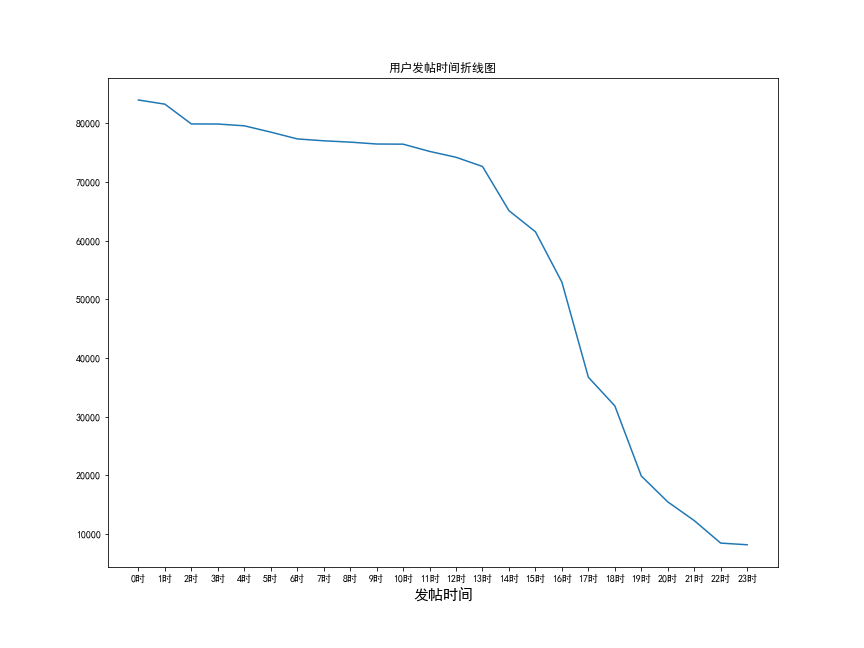
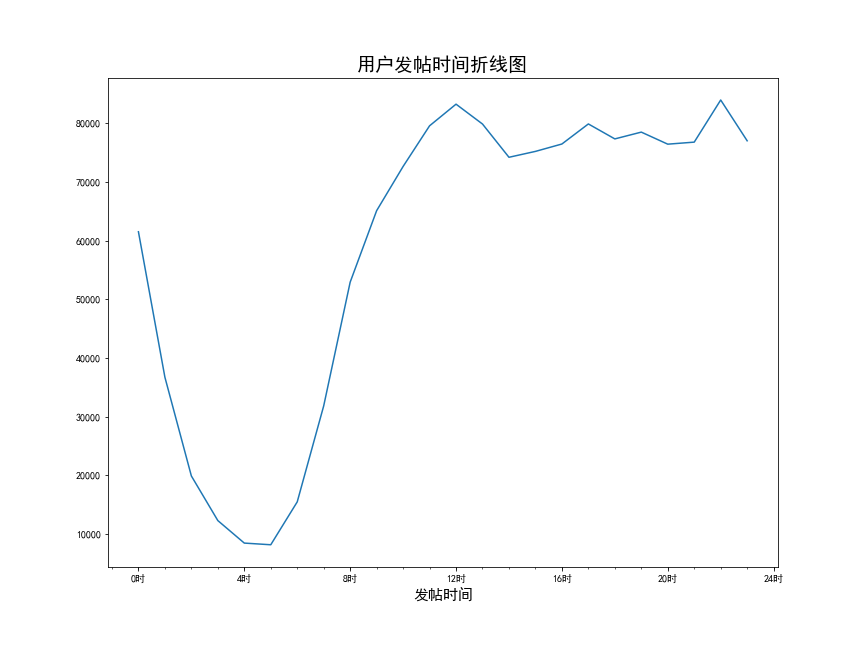
修改刻度

diff --git a/tiebaAnalyse/tieAnalyse.py b/tiebaAnalyse/tieAnalyse.py
@@ -1,7 +1,11 @@
+# -*- coding: utf-8 -*-
+
 import pandas as pd
 import matplotlib.pyplot as plt
 import matplotlib
 from wordcloud import WordCloud
+from matplotlib.ticker import MultipleLocator
+from matplotlib.ticker import  FormatStrFormatter
 
 
 class TieMat():
@@ -21,7 +25,6 @@ class TieMat():
         plt.axis('equal')
         # 图例
         ax.legend(loc=3)
-        plt.show()
         plt.savefig('发帖来源饼图')
         
     def level_bar(self, data):
@@ -40,9 +43,8 @@ class TieMat():
         # 显示图标题
         plt.title("用户等级分布条形图", fontsize=19)
         for a,b in zip(x,y):
-            plt.text(a, b + 1000, '%.0f'%b, ha='center', 
+            plt.text(a, b + 1000, '%d'%b, ha='center', 
                      va='bottom', fontsize=10)
-        plt.show()
         plt.savefig('用户等级分布条形图')
     
     def time_plot(self, data):
@@ -50,16 +52,23 @@ class TieMat():
         # 取发帖时间的小时作为发帖时间
         data['create_time'] = data['create_time'].str[:2]
         y = data['create_time'].value_counts()
+        y = y.sort_index()
         x = y.index
-        label = [str(i) + '时' for i in range(0,24)]
         # 折线图
-        plt.figure(figsize=(12,9))
-        plt.plot(x, y)
-        plt.xticks(x, label)
-        plt.xlabel('发帖时间', fontsize=15)
-        plt.title('用户发帖时间折线图', fontsize=19)
-        plt.show()
-        plt.savefig('用户发帖时间折线图')
+        x_major = MultipleLocator(4)
+        x_minor = MultipleLocator(1)
+        # 设置x轴标签文本的格式
+        x_formatter = FormatStrFormatter('%d时') 
+        fig, ax = plt.subplots(figsize=(12,9))
+        ax.plot(x, y)
+        #设置主刻度标签
+        ax.xaxis.set_major_locator(x_major)
+        ax.xaxis.set_major_formatter(x_formatter)
+        ax.xaxis.set_minor_locator(x_minor)
+        
+        ax.set_xlabel('发帖时间', fontsize=15)
+        ax.set_title('用户发帖时间折线图', fontsize=19)
+        plt.savefig('用户发帖时间折线图1')
         
     def name_wordcloud(self, data):
         "昵称词云图"
@@ -76,7 +85,6 @@ class TieMat():
         plt.axis('off')
         # 保存图片
         w.to_file('昵称词云图.png')
-        plt.show()
         
 if __name__ == "__main__":
     data = pd.read_csv('hai.csv')
